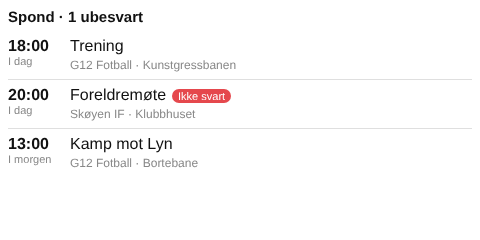
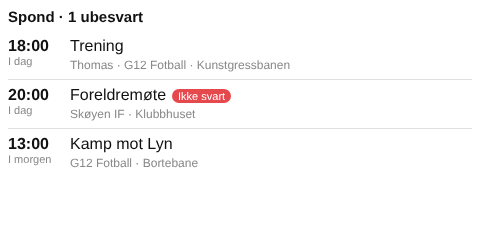
Homey Spond app: include child names in summary, tokens and widget
Claude-Session: https://claude.ai/code/session_01AziwnhkUB1s87sH6wAtonC

Changed region(s): [[0.125, 0.2333, 0.625, 0.2917]]

diff --git a/homey-spond/app.js b/homey-spond/app.js
@@ -60,11 +60,11 @@ class SpondApp extends Homey.App {
     if (this.myMemberIds && Date.now() - this.myMemberIdsAt < 3600000) return;
     const profile = await client.getProfile();
     const groups = await client.getGroups();
-    const ids = new Set();
+    const ids = new Map(); // memberId -> first name
     for (const g of groups) {
       for (const m of g.members || []) {
         const mine = m.profile?.id === profile.id || (m.guardians || []).some((x) => x.profile?.id === profile.id);
-        if (mine) ids.add(m.id);
+        if (mine) ids.set(m.id, m.firstName || m.profile?.firstName || '');
       }
     }
     this.myMemberIds = ids;
@@ -75,6 +75,22 @@ class SpondApp extends Homey.App {
     if (!this.myMemberIds) return false;
     const pending = [...(e.responses?.unansweredIds || []), ...(e.responses?.unconfirmedIds || [])];
     return pending.some((id) => this.myMemberIds.has(id));
+  }
+
+  // Names of my members (me/my children) invited to the event who haven't declined.
+  whoFor(e) {
+    if (!this.myMemberIds) return '';
+    const r = e.responses || {};
+    const declined = new Set(r.declinedIds || []);
+    const invited = [
+      ...(r.acceptedIds || []), ...(r.unansweredIds || []),
+      ...(r.unconfirmedIds || []), ...(r.waitinglistIds || []),
+    ];
+    const names = [...new Set(invited)]
+      .filter((id) => !declined.has(id) && this.myMemberIds.has(id))
+      .map((id) => this.myMemberIds.get(id))
+      .filter(Boolean);
+    return joinNames([...new Set(names)]);
   }
 
   unansweredCount() {
@@ -95,6 +111,7 @@ class SpondApp extends Homey.App {
         group: e.recipients?.group?.name || '',
         location: e.location?.feature || e.location?.address || '',
         unanswered: !!e.unanswered,
+        who: e.who || '',
       }));
   }
 
@@ -116,7 +133,10 @@ class SpondApp extends Homey.App {
     try {
       this.events = await client.getEvents();
       await this.refreshMyMemberIds(client).catch(this.error);
-      for (const e of this.events) e.unanswered = this.isUnanswered(e);
+      for (const e of this.events) {
+        e.unanswered = this.isUnanswered(e);
+        e.who = this.whoFor(e);
+      }
     } catch (err) {
       this.homey.settings.set('status', `Feil: ${err.message}`);
       throw err;
@@ -154,6 +174,7 @@ function tokens(e) {
   const start = new Date(e.startTimestamp);
   return {
     title: e.heading || '',
+    who: e.who || '',
     group: e.recipients?.group?.name || '',
     start: start.toLocaleString('nb-NO', { timeZone: 'Europe/Oslo', dateStyle: 'short', timeStyle: 'short' }),
     location: e.location?.feature || e.location?.address || '',
@@ -174,9 +195,14 @@ function todaySummary(events) {
   const parts = events.map((e) => {
     const time = new Date(e.startTimestamp).toLocaleTimeString('nb-NO', { timeZone: 'Europe/Oslo', hour: '2-digit', minute: '2-digit' });
     const t = tokens(e);
-    return `Klokken ${time}: ${t.title}${t.group ? `, ${t.group}` : ''}${t.location ? `, på ${t.location}` : ''}.`;
+    return `Klokken ${time}: ${t.title}${e.who ? ` for ${e.who}` : ''}${t.group ? `, ${t.group}` : ''}${t.location ? `, på ${t.location}` : ''}.`;
   });
   return `I dag har du ${n} Spond-arrangement${n === 1 ? '' : 'er'}. ${parts.join(' ')}`;
+}
+
+function joinNames(names) {
+  if (names.length <= 1) return names[0] || '';
+  return `${names.slice(0, -1).join(', ')} og ${names[names.length - 1]}`;
 }
 
 function isToday(d) {

diff --git a/homey-spond/widgets/upcoming/public/index.html b/homey-spond/widgets/upcoming/public/index.html
@@ -49,7 +49,7 @@
           list.innerHTML = events.map((e) => {
             const d = new Date(e.start);
             const time = d.toLocaleTimeString('nb-NO', { timeZone: tz, hour: '2-digit', minute: '2-digit' });
-            const meta = [e.group, e.location].filter(Boolean).map(esc).join(' · ');
+            const meta = [e.who, e.group, e.location].filter(Boolean).map(esc).join(' · ');
             return `<li><span class="when">${time}<span class="day">${esc(label(d))}</span></span>`
               + `<span><span class="title">${esc(e.title)}</span>${e.unanswered ? '<span class="badge">Ikke svart</span>' : ''}${meta ? `<br><span class="meta">${meta}</span>` : ''}</span></li>`;
           }).join('');
